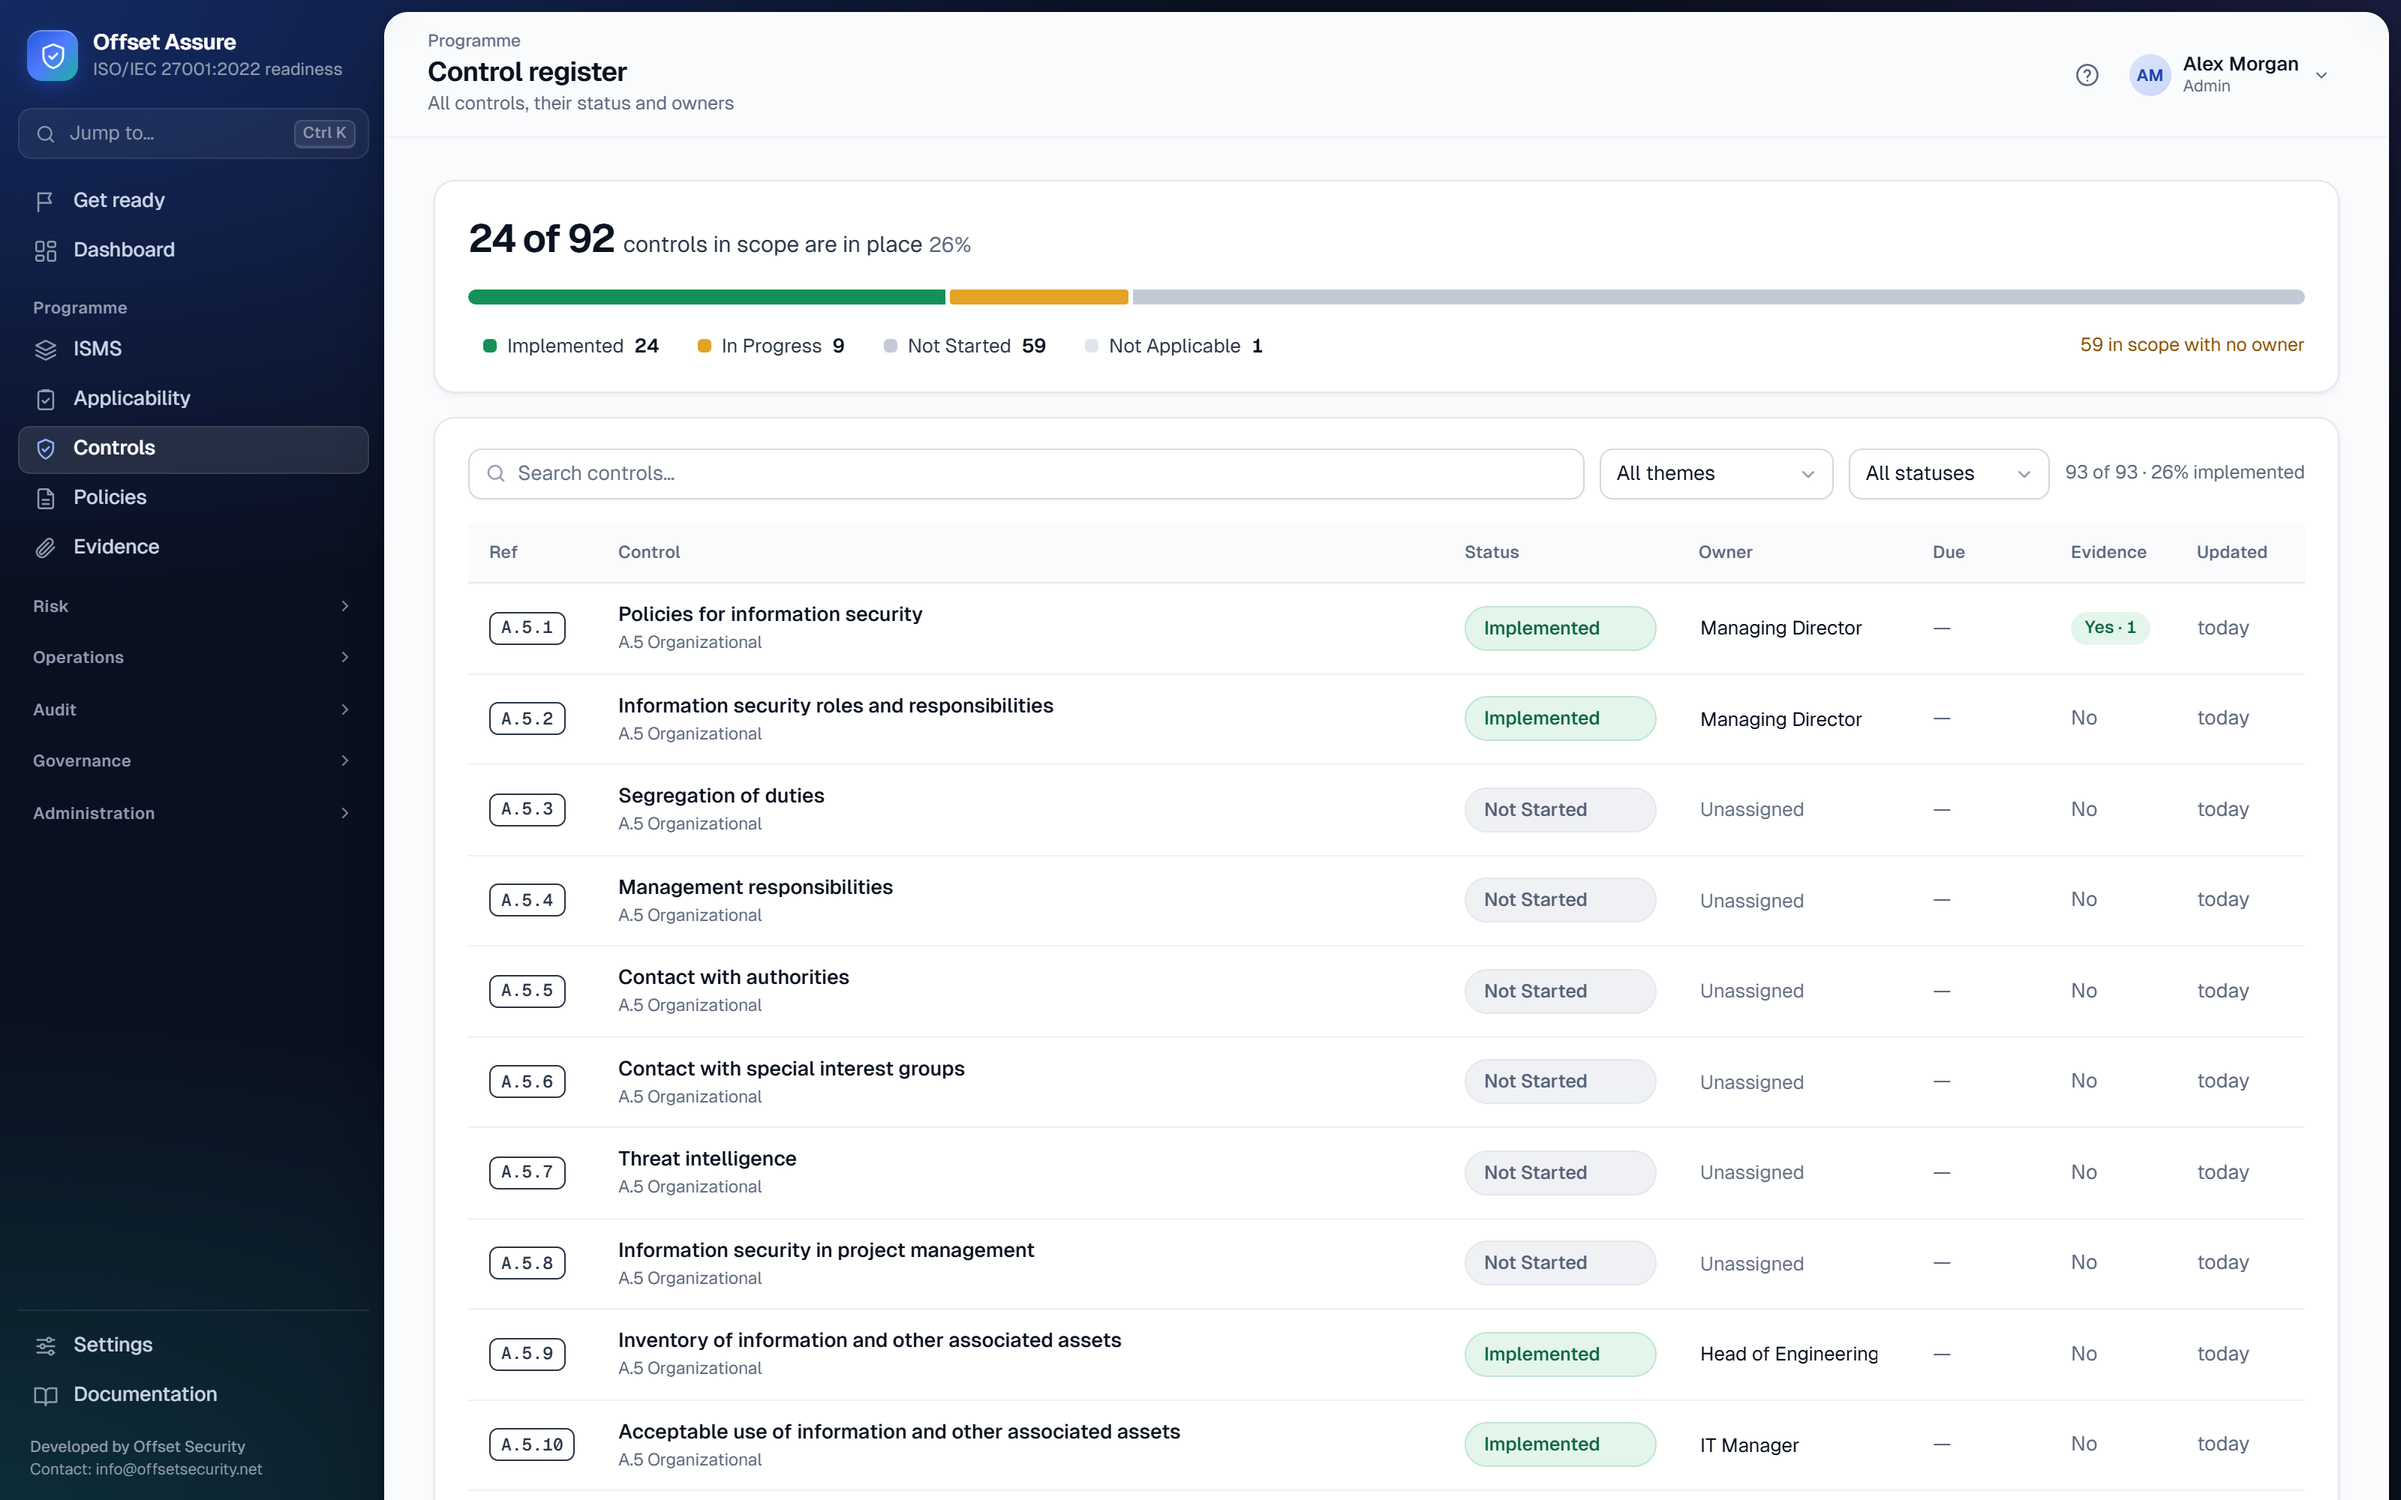
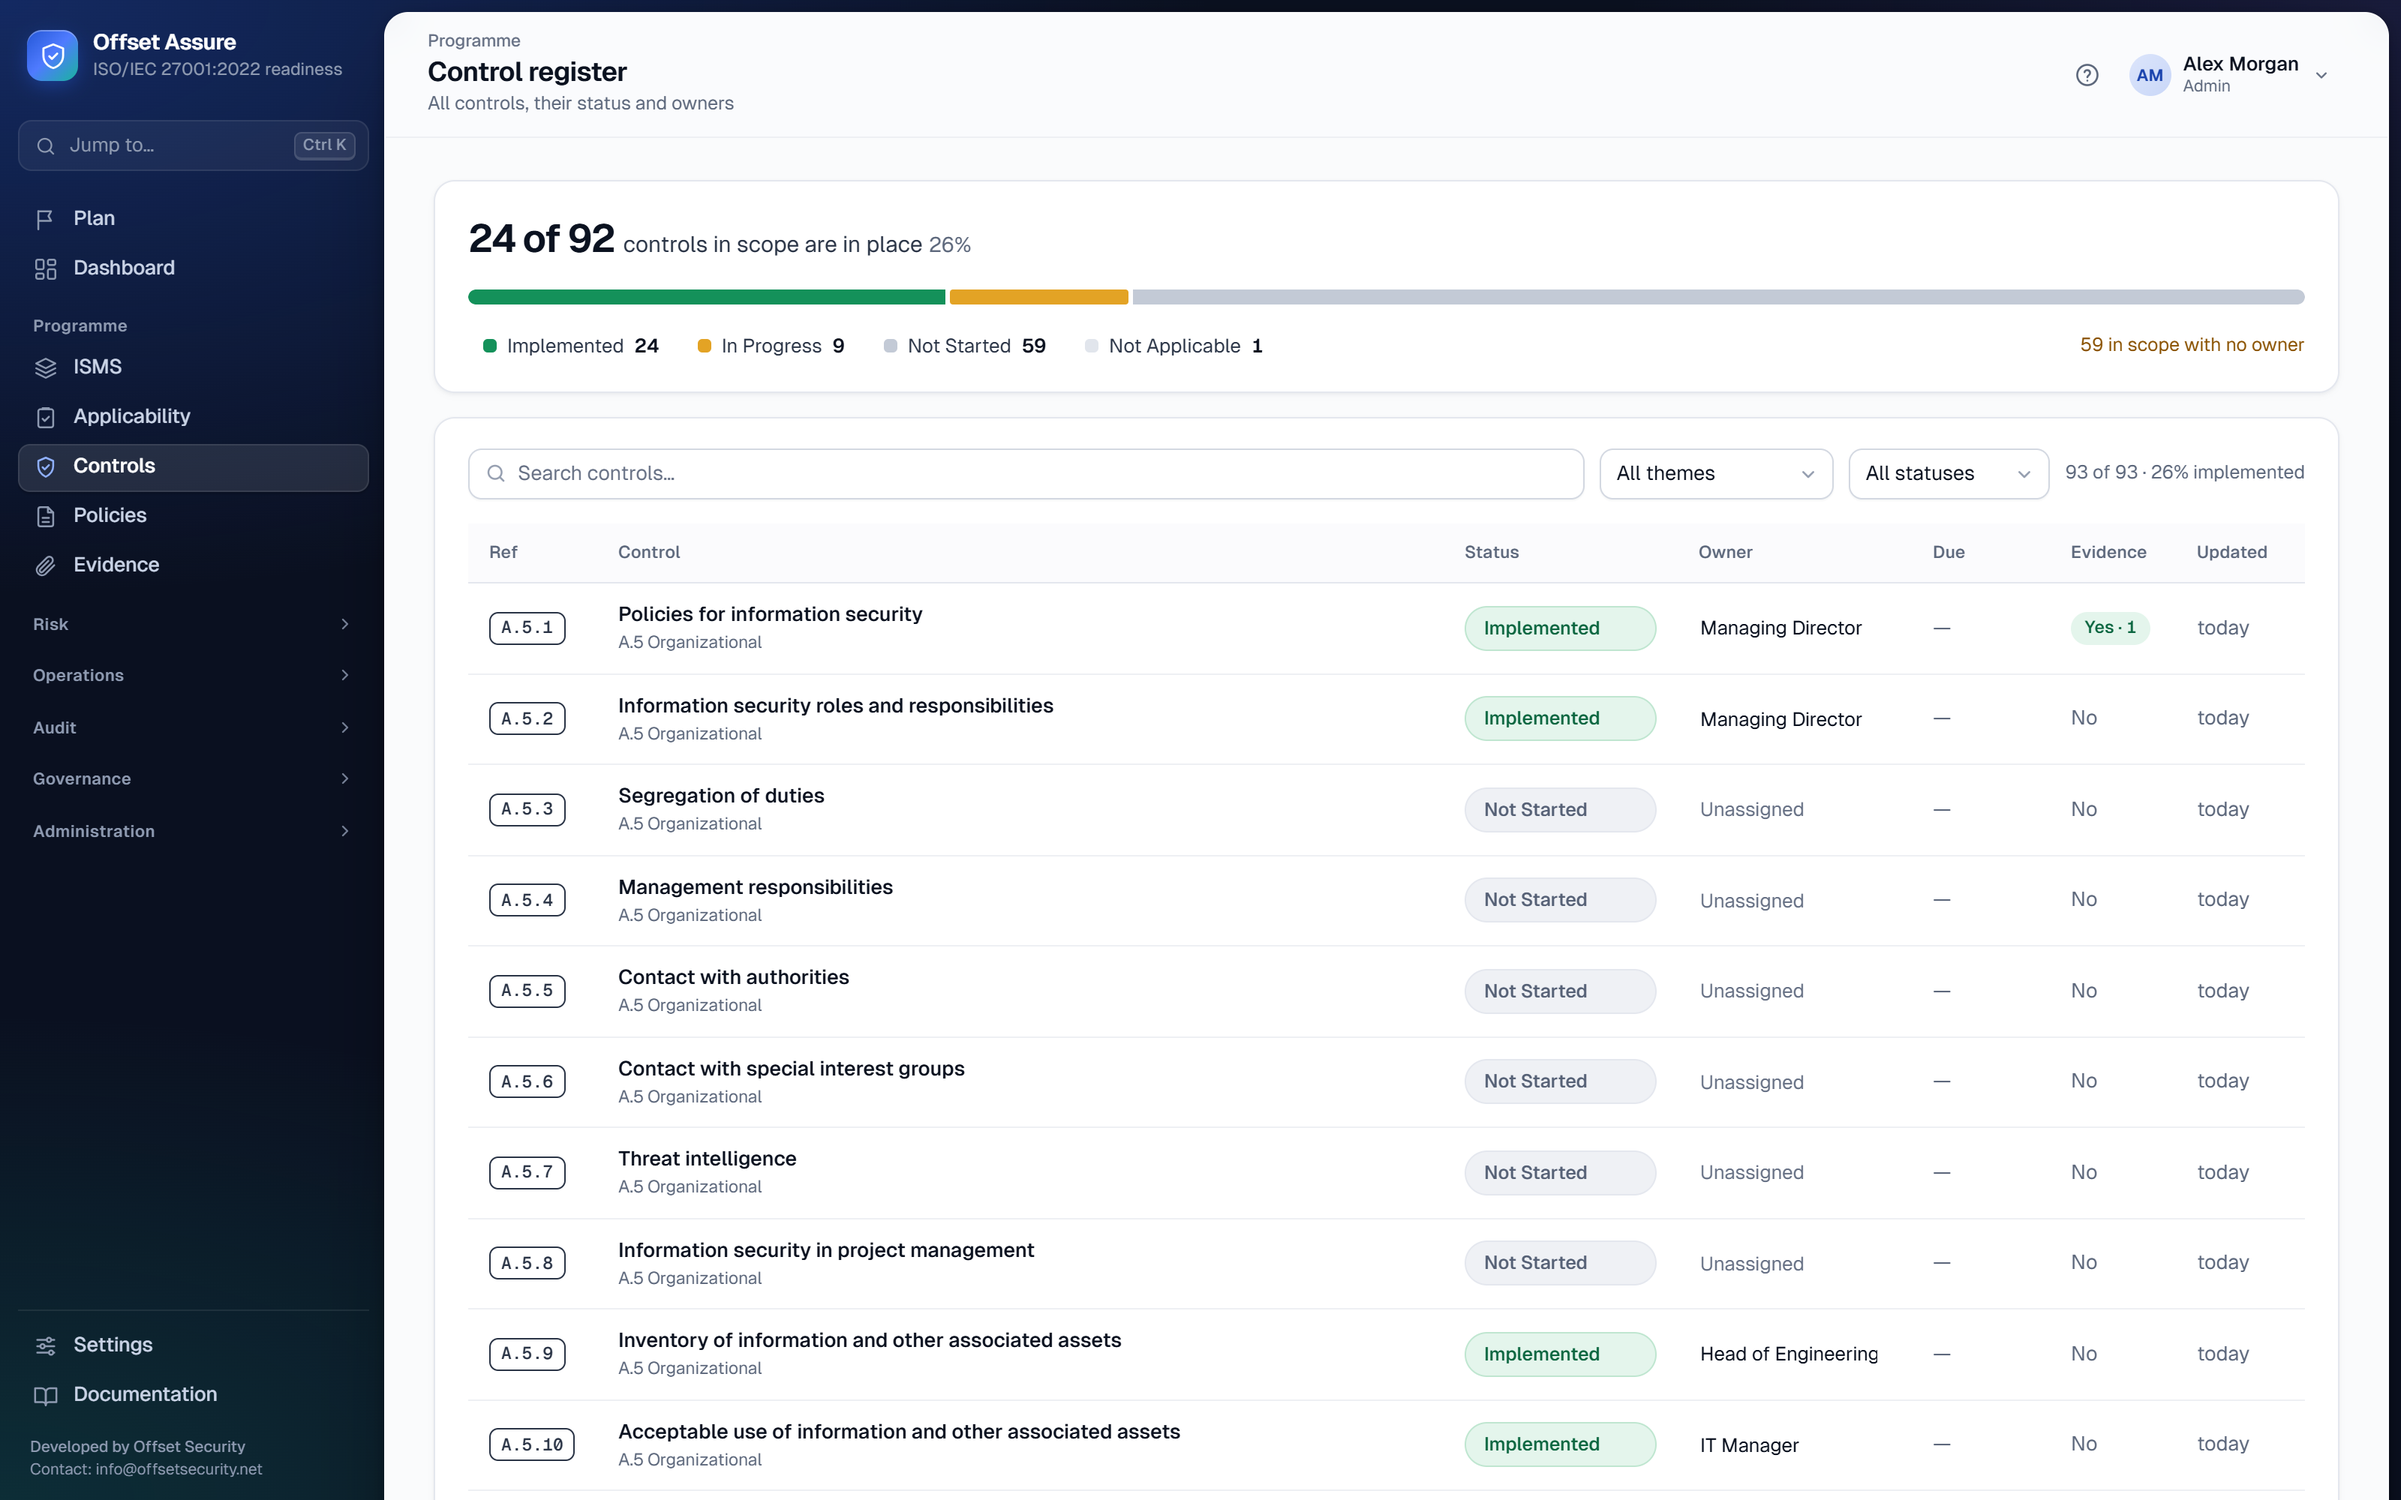
docs: README pictures show Plan and the Golden thread on Only problems; roadmap says what is done
The three README pictures were taken before Get ready was renamed Plan, and the Golden thread picture showed Everything. They are retaken from the current build: Plan in the menu, the Golden thread opened on Only problems (its default), and the dashboard greeting in the morning. The roadmap lists the finished Plan look as done instead of planned.

Changed region(s): [[0.0, 0.062, 0.1562, 0.403], [0.0, 0.403, 0.0625, 0.558], [0.125, 0.062, 0.1562, 0.124]]

diff --git a/ROADMAP.md b/ROADMAP.md
@@ -11,13 +11,15 @@ What is coming next. Dates are the quarter we plan to ship in.
 - **October 2026, 0.2.47:** Docker installs keep evidence files across updates,
   and can keep their data in a folder you choose.
 
+- **November 2026:** the step-by-step plan (now called Plan) has a new look, with a
+  "Run a mock audit" button at the top where it is easy to see; every screen has the
+  new look; Settings is one page of tabs with an Overview.
+
 ## Planned for Q1 2027
 
 - **Multi-factor sign-in.** A code from an authenticator app at sign-in, with
   backup codes for a lost phone and an administrator reset. It works fully
   offline, like the rest of the product.
-- **A new look for Get ready.** The step-by-step plan to audit readiness,
-  clearer and easier to follow.
 - **More reports.** New reports in the Reports tab, each grouped by who it is
   for, with a preview before you download.
 
